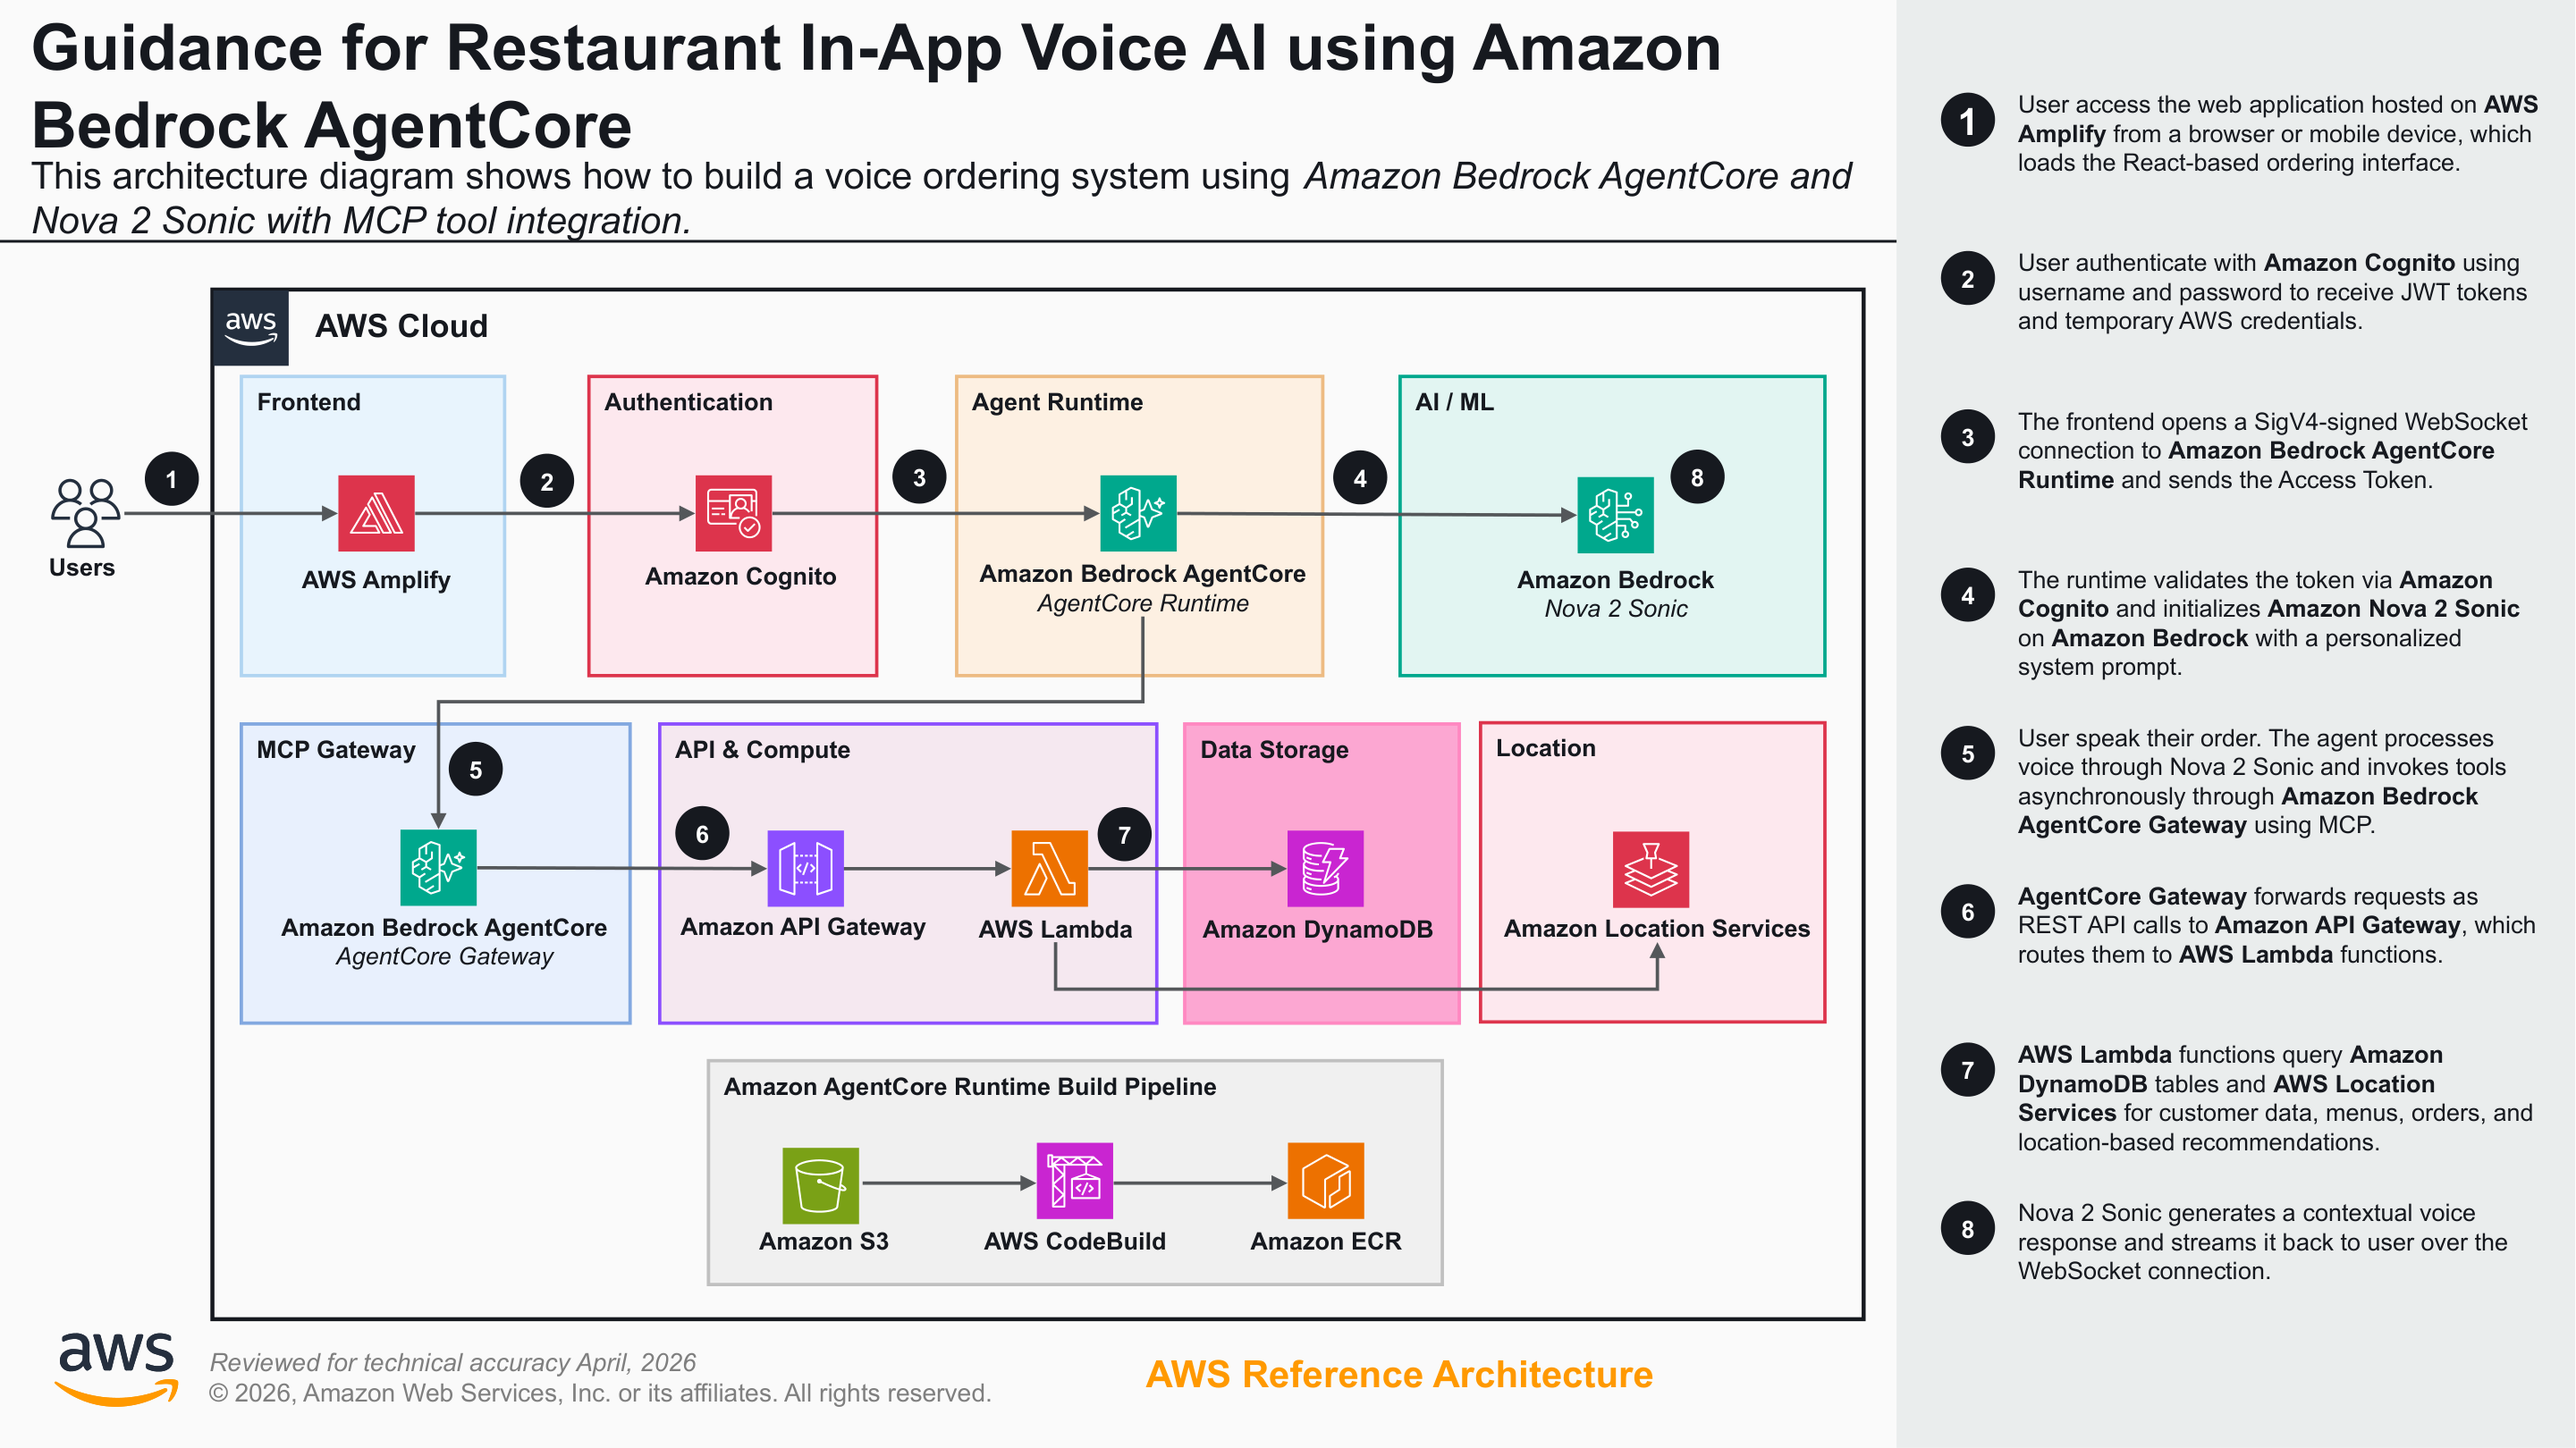
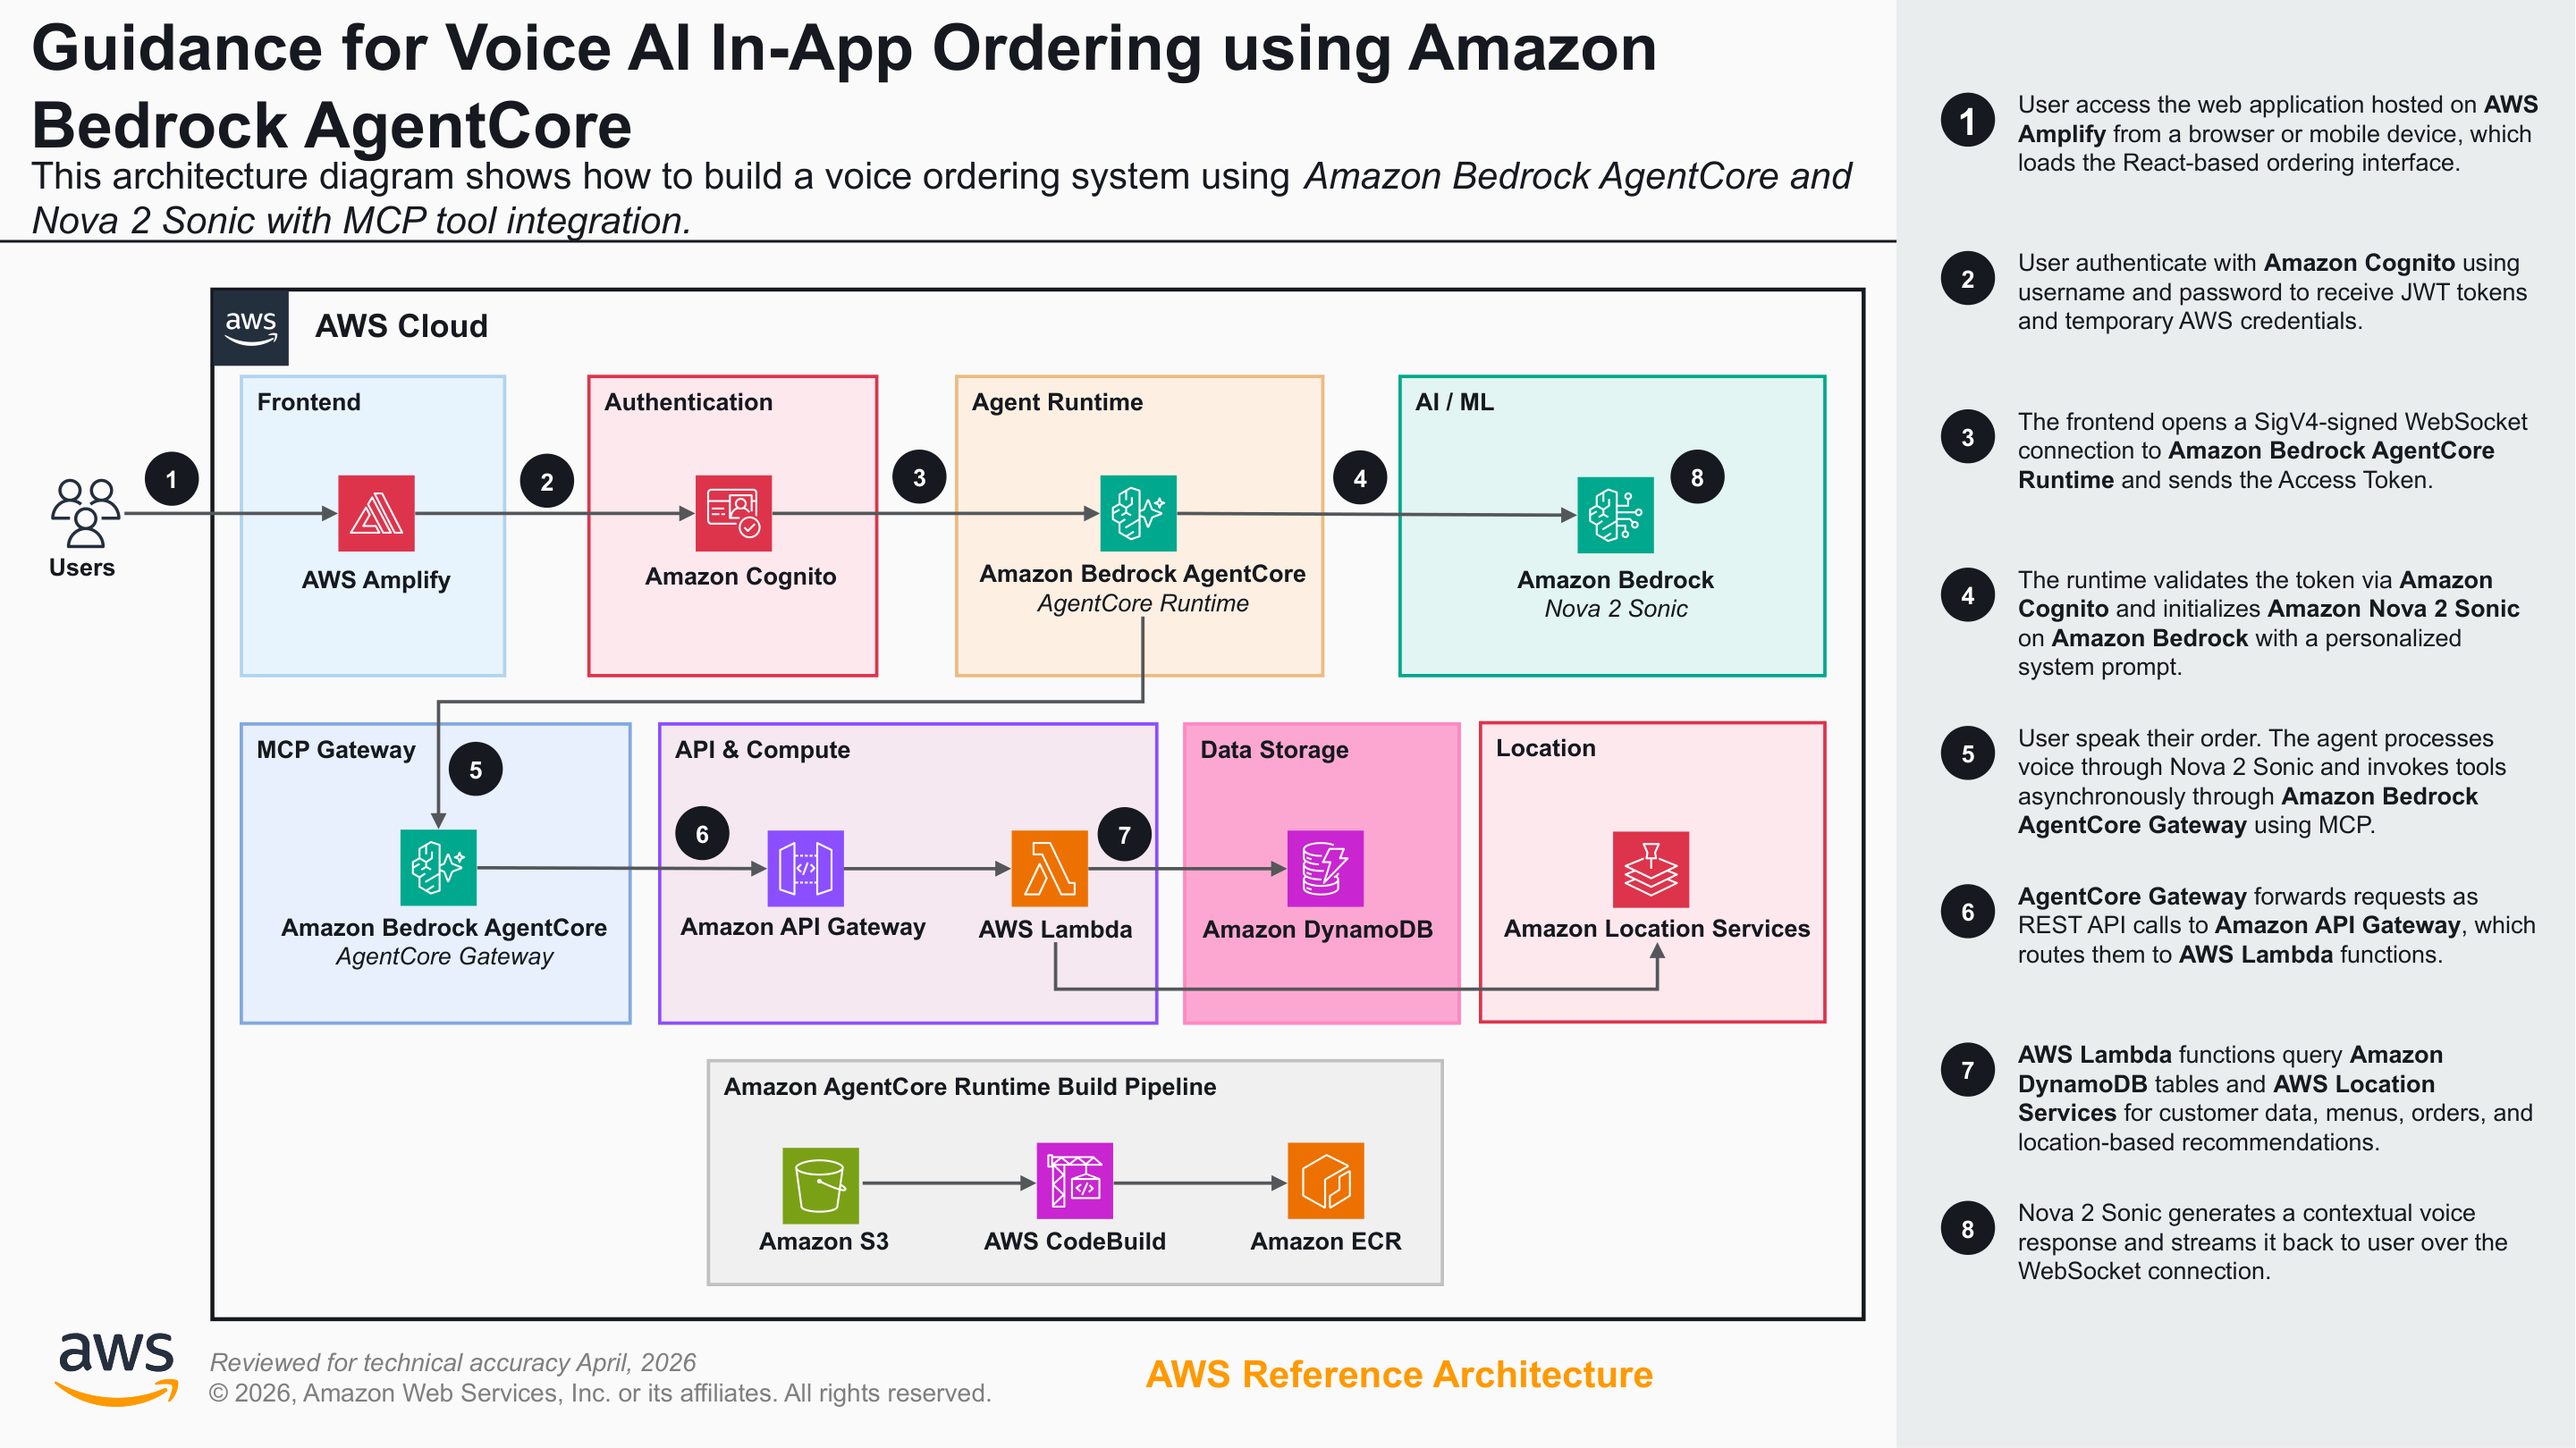
Guidance title updated

Changed region(s): [[0.1562, 0.0, 0.6873, 0.0617]]

diff --git a/README.md b/README.md
@@ -1,4 +1,4 @@
-# Guidance for Restaurant In-App Voice AI using Amazon Bedrock AgentCore
+# Guidance for Voice AI In-App Ordering using Amazon Bedrock AgentCore
 
 ## Table of Contents
 
